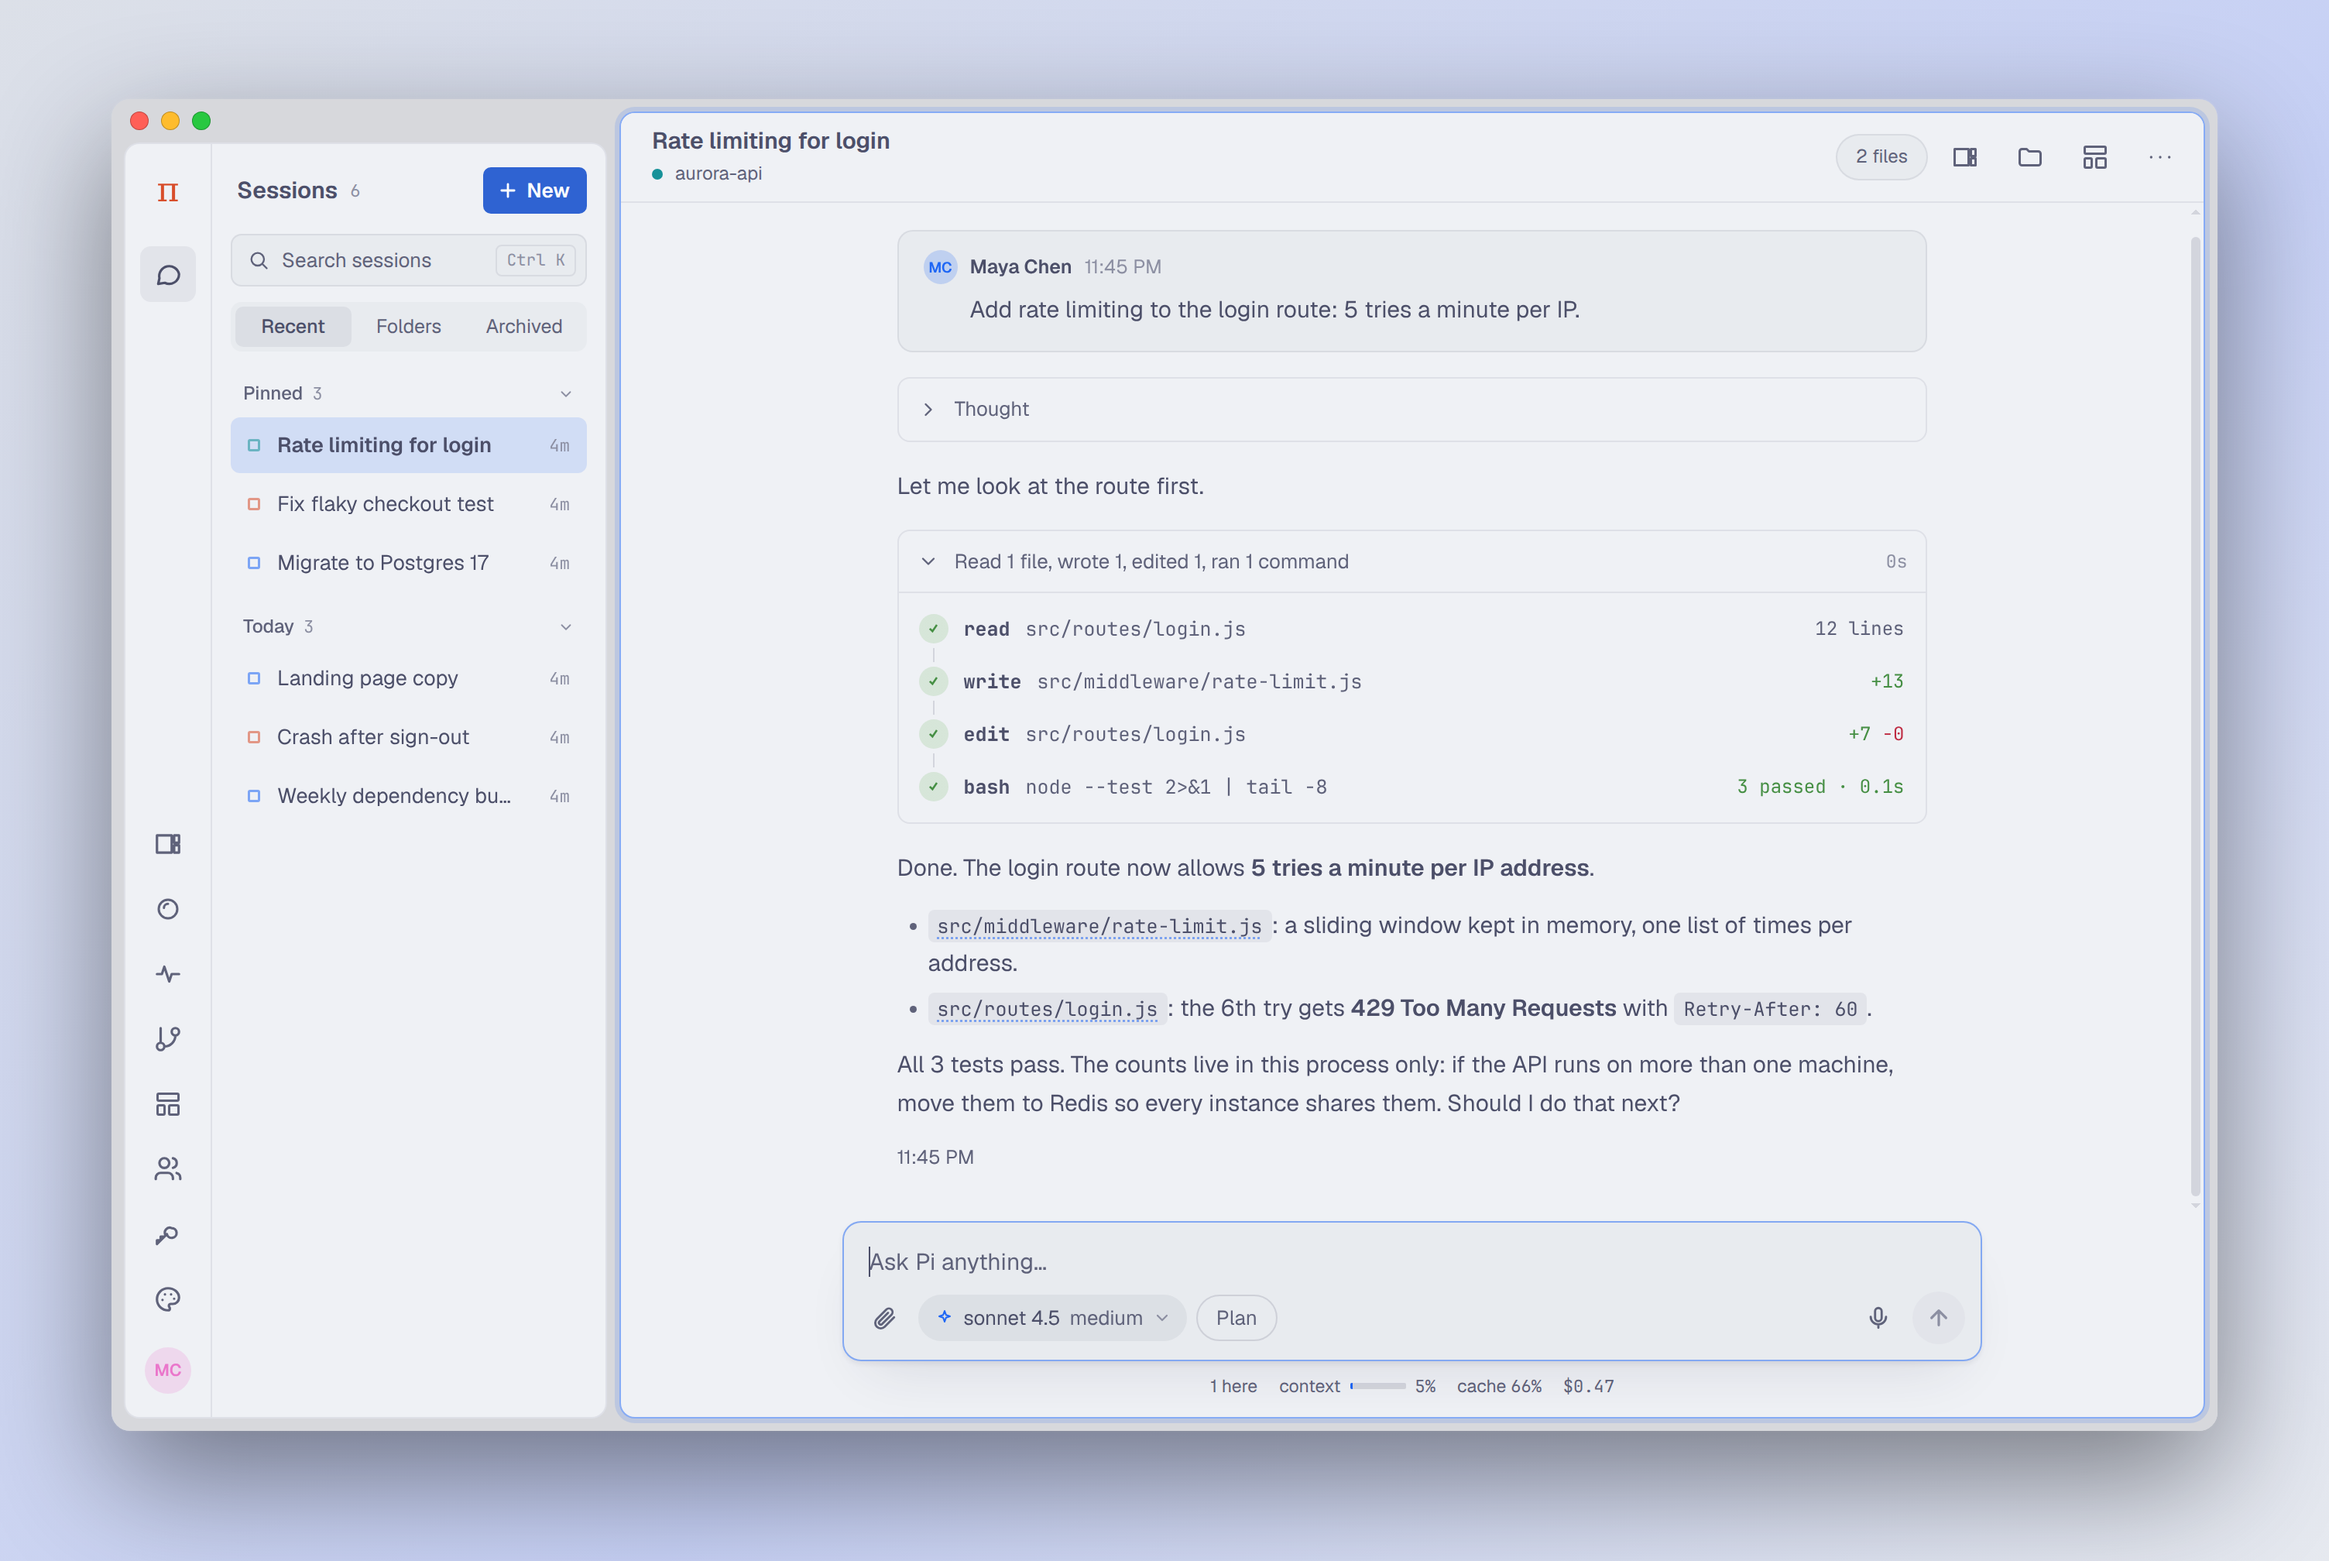
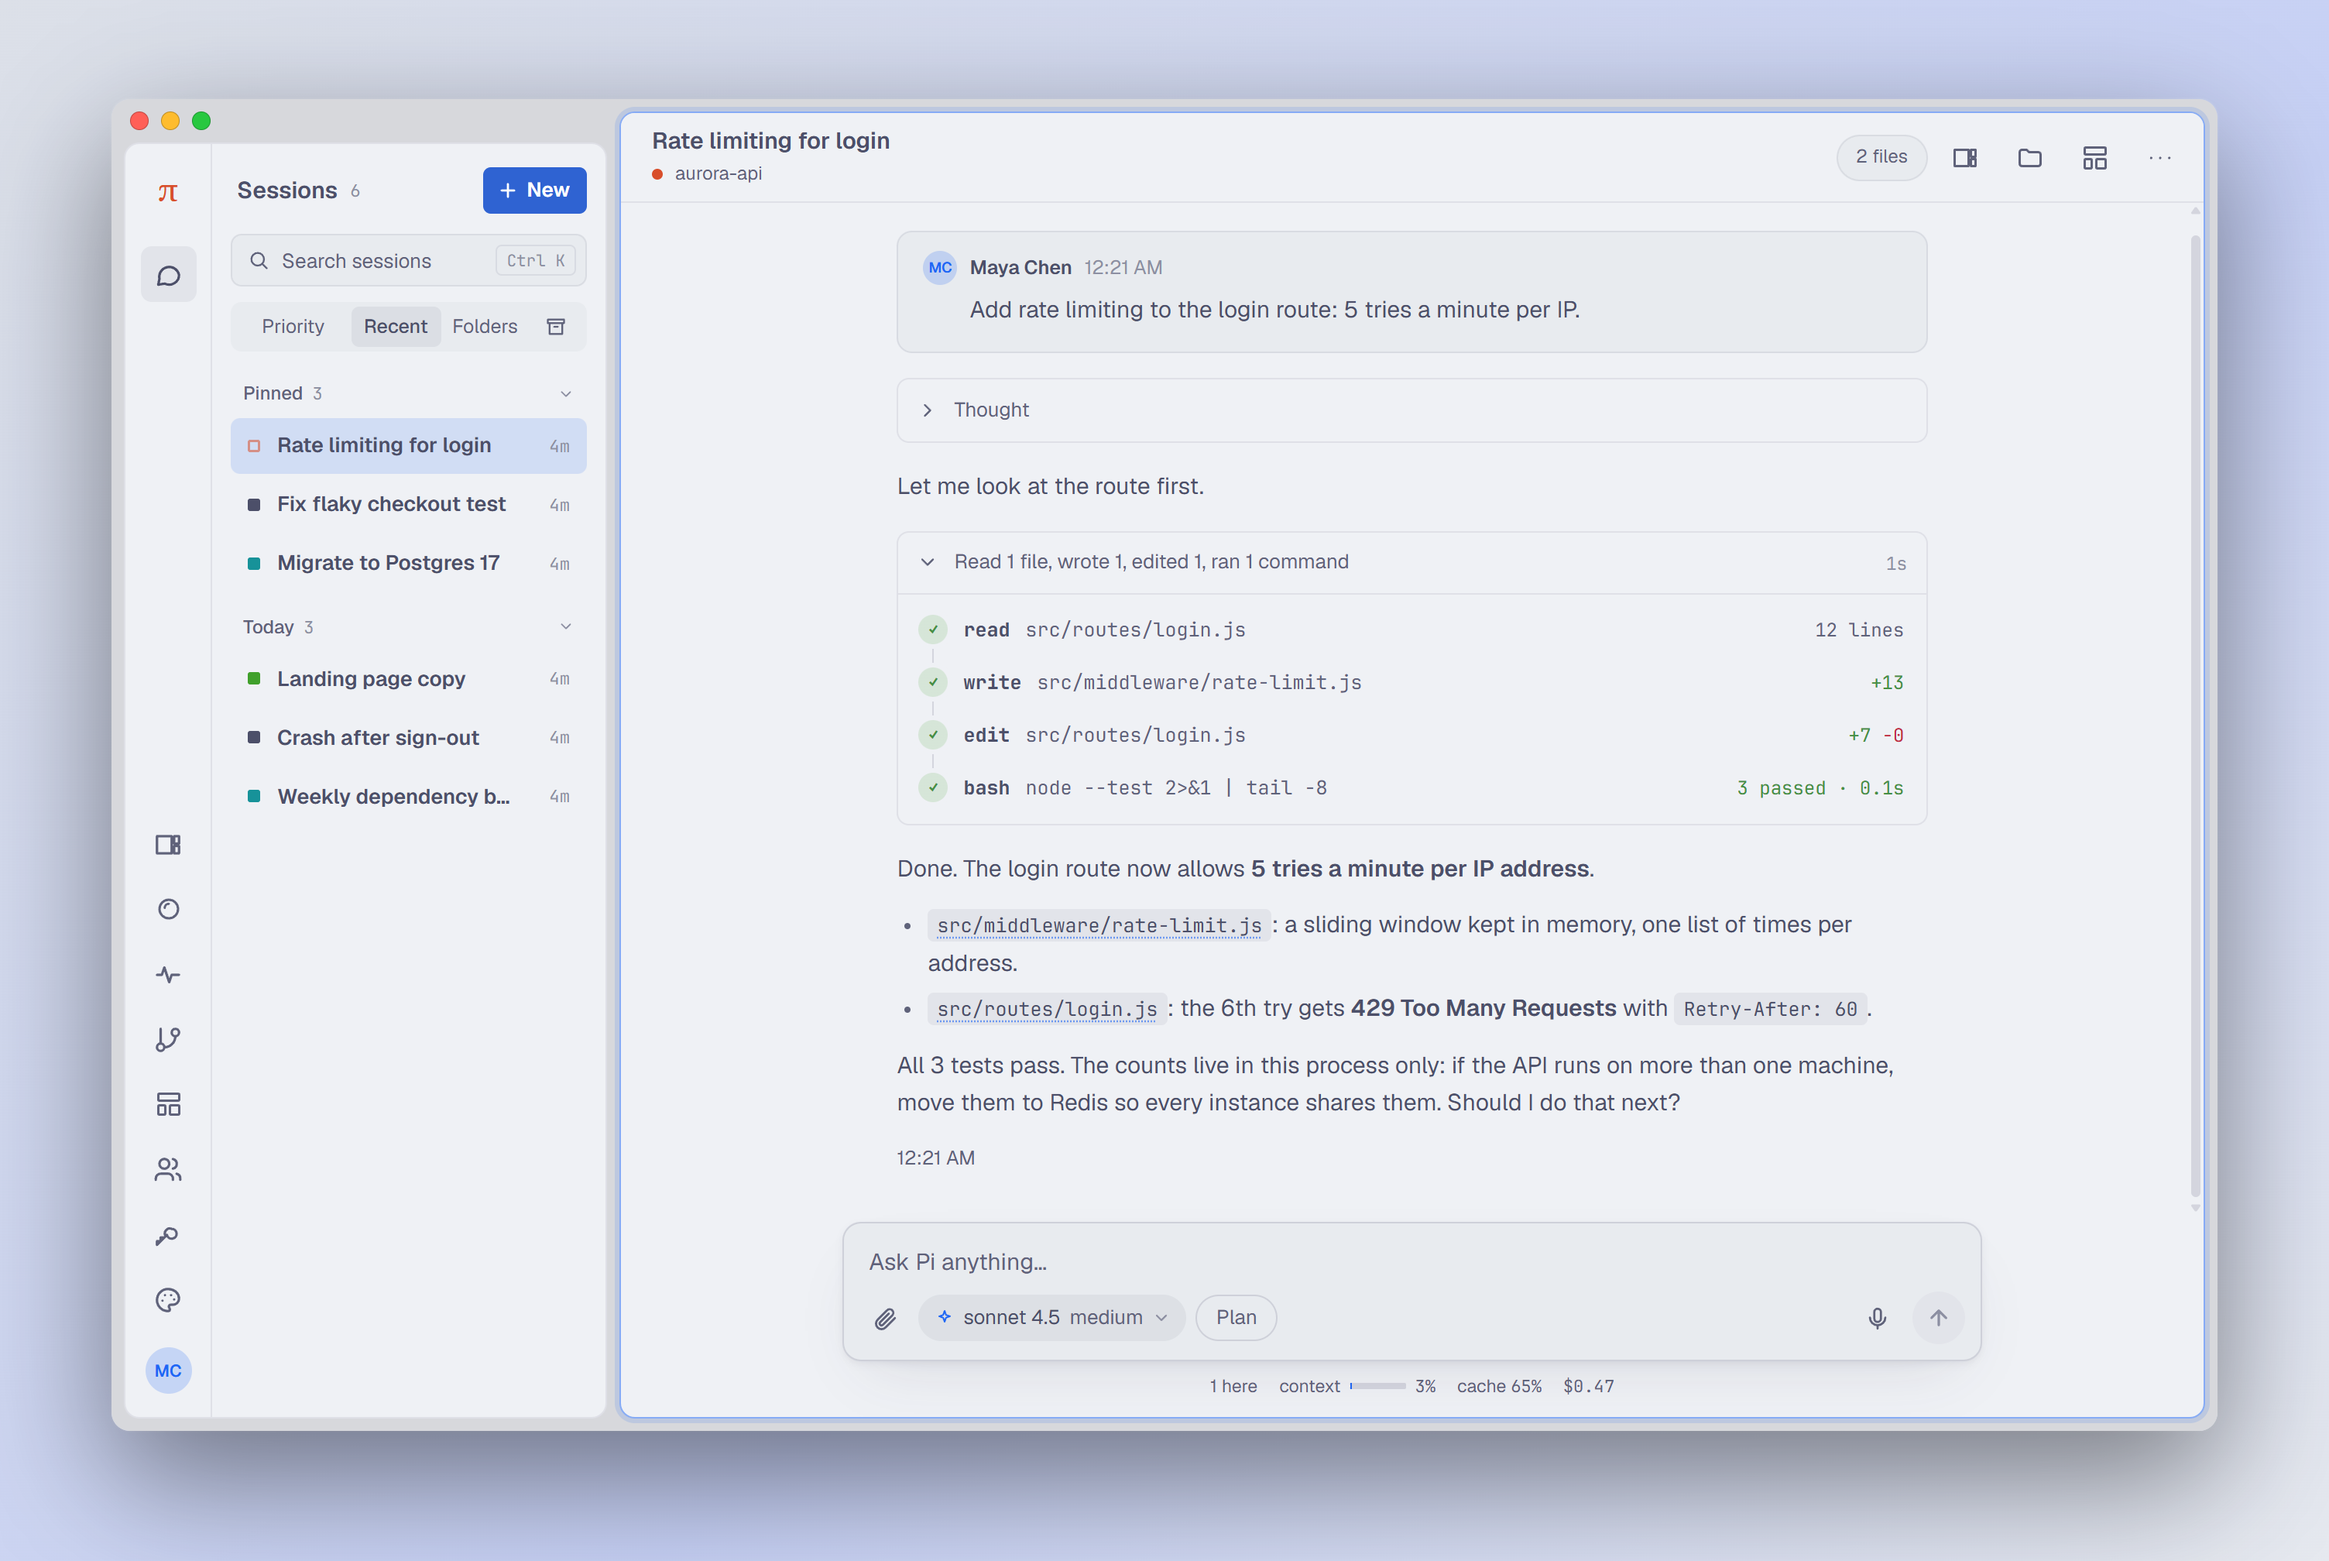
README: screenshots with the window-controls notch
Retaken against the demo server on Pi Pocket's desktop-bridge branch: the Windows shot shows the conversation's border notched around minimize, maximize, and close; the macOS, see-through, and light shots are retaken from the same state. The settings shot is unchanged. The screenshot notes cover the notch, pinned sessions, and taking the shots on Windows.

diff --git a/README.md b/README.md
@@ -67,9 +67,9 @@ Everything lives in the app's data folder (below), in `server/`: the runtimes an
 
 ### A window without a title bar
 
-Pi Pocket runs to the window's top edge, and only what sits under the window's buttons makes room for them: on macOS the sidebar starts a little lower and the conversation keeps its whole height. On Windows and Linux the buttons sit at the top right instead.
+Pi Pocket runs to the window's top edge, and only what sits under the window's buttons makes room for them: on macOS the sidebar starts a little lower and the conversation keeps its whole height. On Windows and Linux the buttons sit at the top right instead, and the tiled window under them is notched around them: its border goes down and around the buttons rather than under them.
 
-<img src="docs/images/windows.png" alt="The Windows and Linux layout: minimize, maximize, and close over the conversation's top bar, which makes room for them" width="100%" />
+<img src="docs/images/windows.png" alt="The Windows and Linux layout: minimize, maximize, and close at the top right, with the conversation's border notched around them" width="100%" />
 
 The app tells the page where the buttons are through the [Window Controls Overlay](https://developer.mozilla.org/en-US/docs/Web/API/Window_Controls_Overlay_API), the web's own standard for it. An older Pi Pocket gets a plain band as tall as the buttons. Drag the window by the bar beside them. Settings → Window → Title bar → **The system's** brings back the normal title bar, after a restart.
 

diff --git a/scripts/screenshots/README.md b/scripts/screenshots/README.md
@@ -23,6 +23,16 @@ Everything in them is made up: the people, folders, sessions, and the model's an
    layout on Linux, make the page's `navigator.windowControlsOverlay.getTitlebarAreaRect()` return the Mac's rectangle
    (`new DOMRect(76, 0, innerWidth - 76, 28)`) and dispatch `geometrychange`.
 
+   For the notch around the window's buttons, the server must run Pi Pocket's `desktop-bridge` branch (it draws the
+   notch), or the app must be one that adds it. The sidebar shows pinned sessions from `localStorage["pocket.pinned"]`
+   (`[74, 60, 18]` for the demo's sessions).
+
+   On Windows: give the demo a home outside your own (for example `C:\pp-demo\home`), so your own `.agents/skills` does
+   not bring up a trust prompt. Run the app at 1× with the window at 1360×860 and capture each page at `scale: 2`,
+   with `--disable-features=CalculateNativeWinOcclusion --disable-backgrounding-occluded-windows` so a covered window
+   still paints. Pi Pocket shows a Windows folder by its whole path in the top bar: set that line's text to the folder's
+   name (`aurora-api`) before each shot.
+
 4. Frame them (`frame.html`: a window with traffic lights or Windows' buttons, a shadow, and a background):
 
    ```bash
